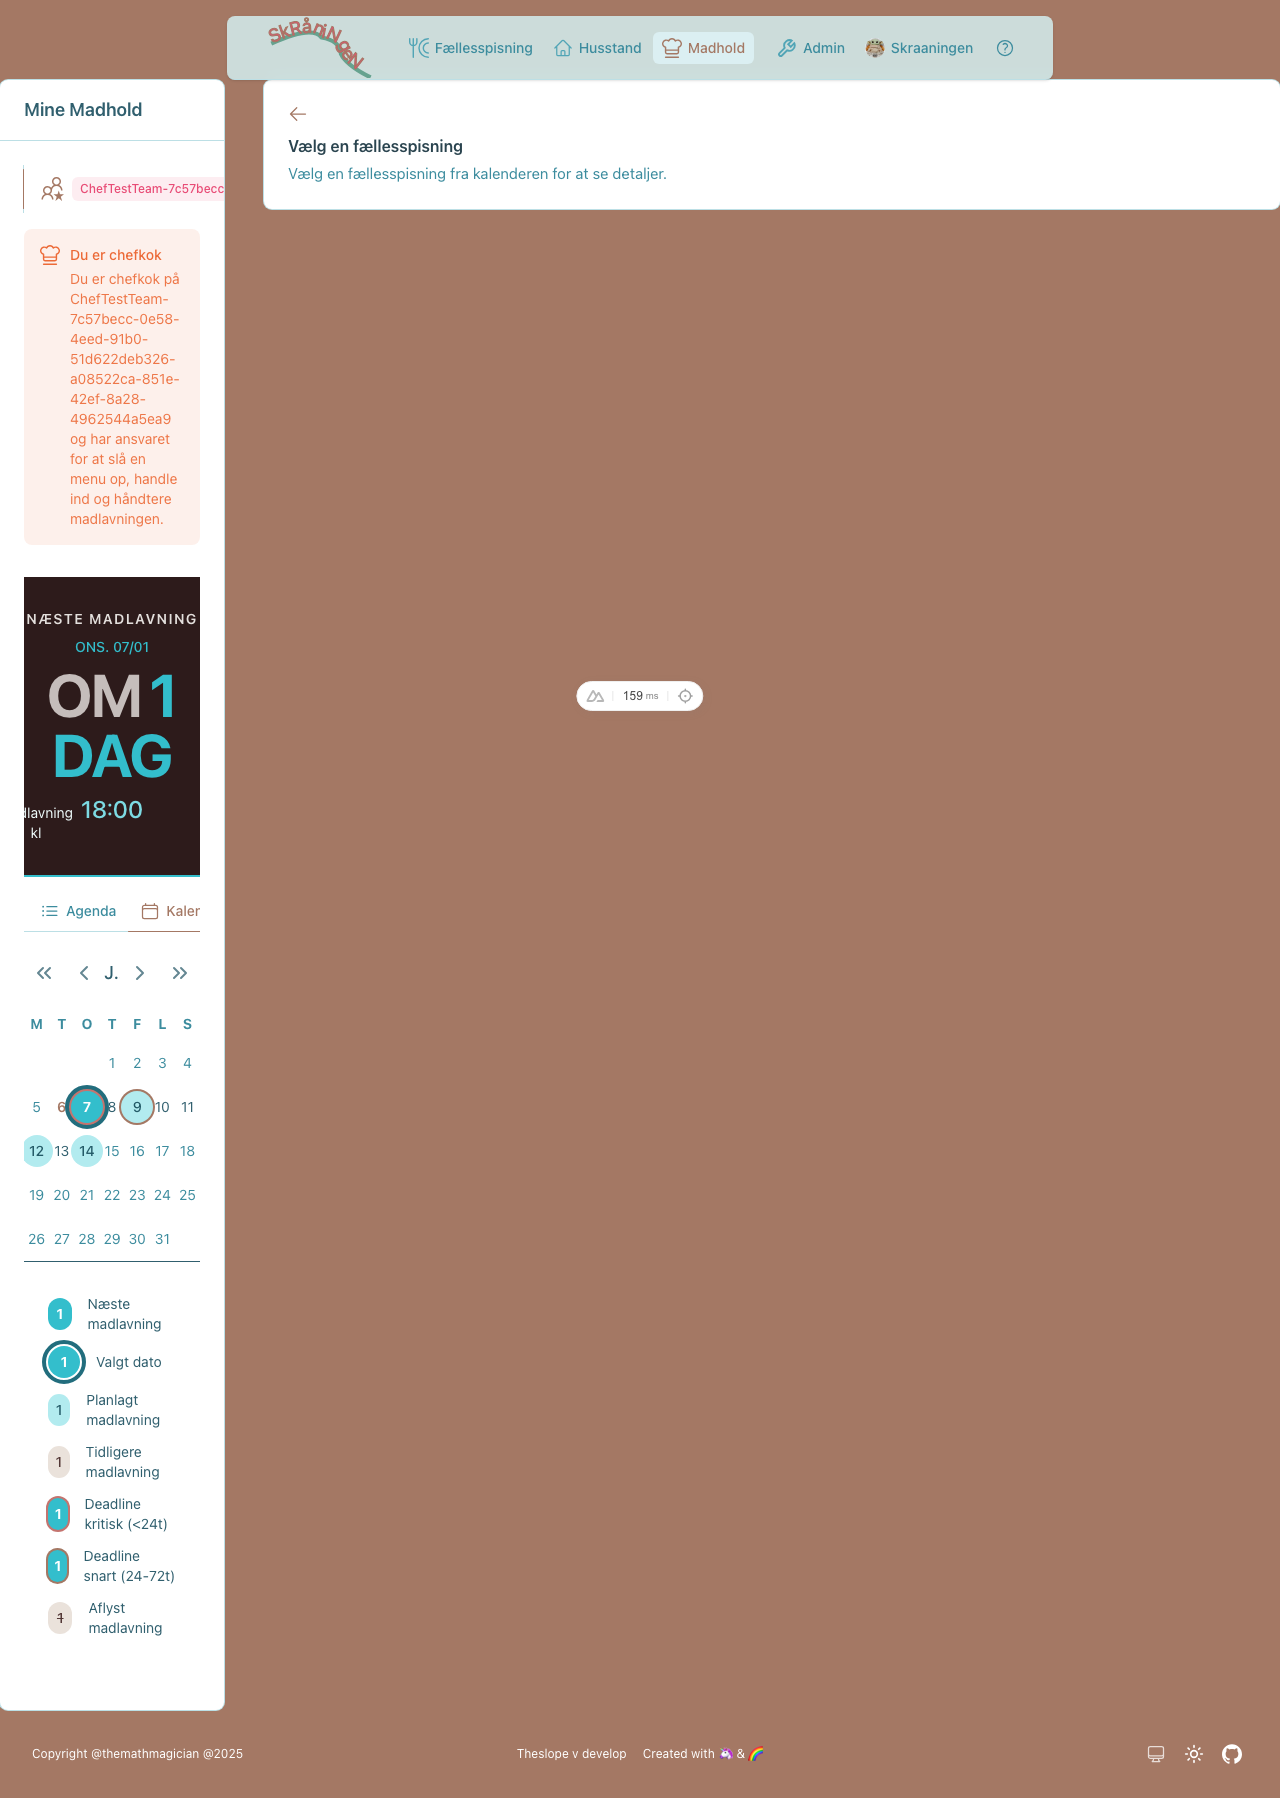
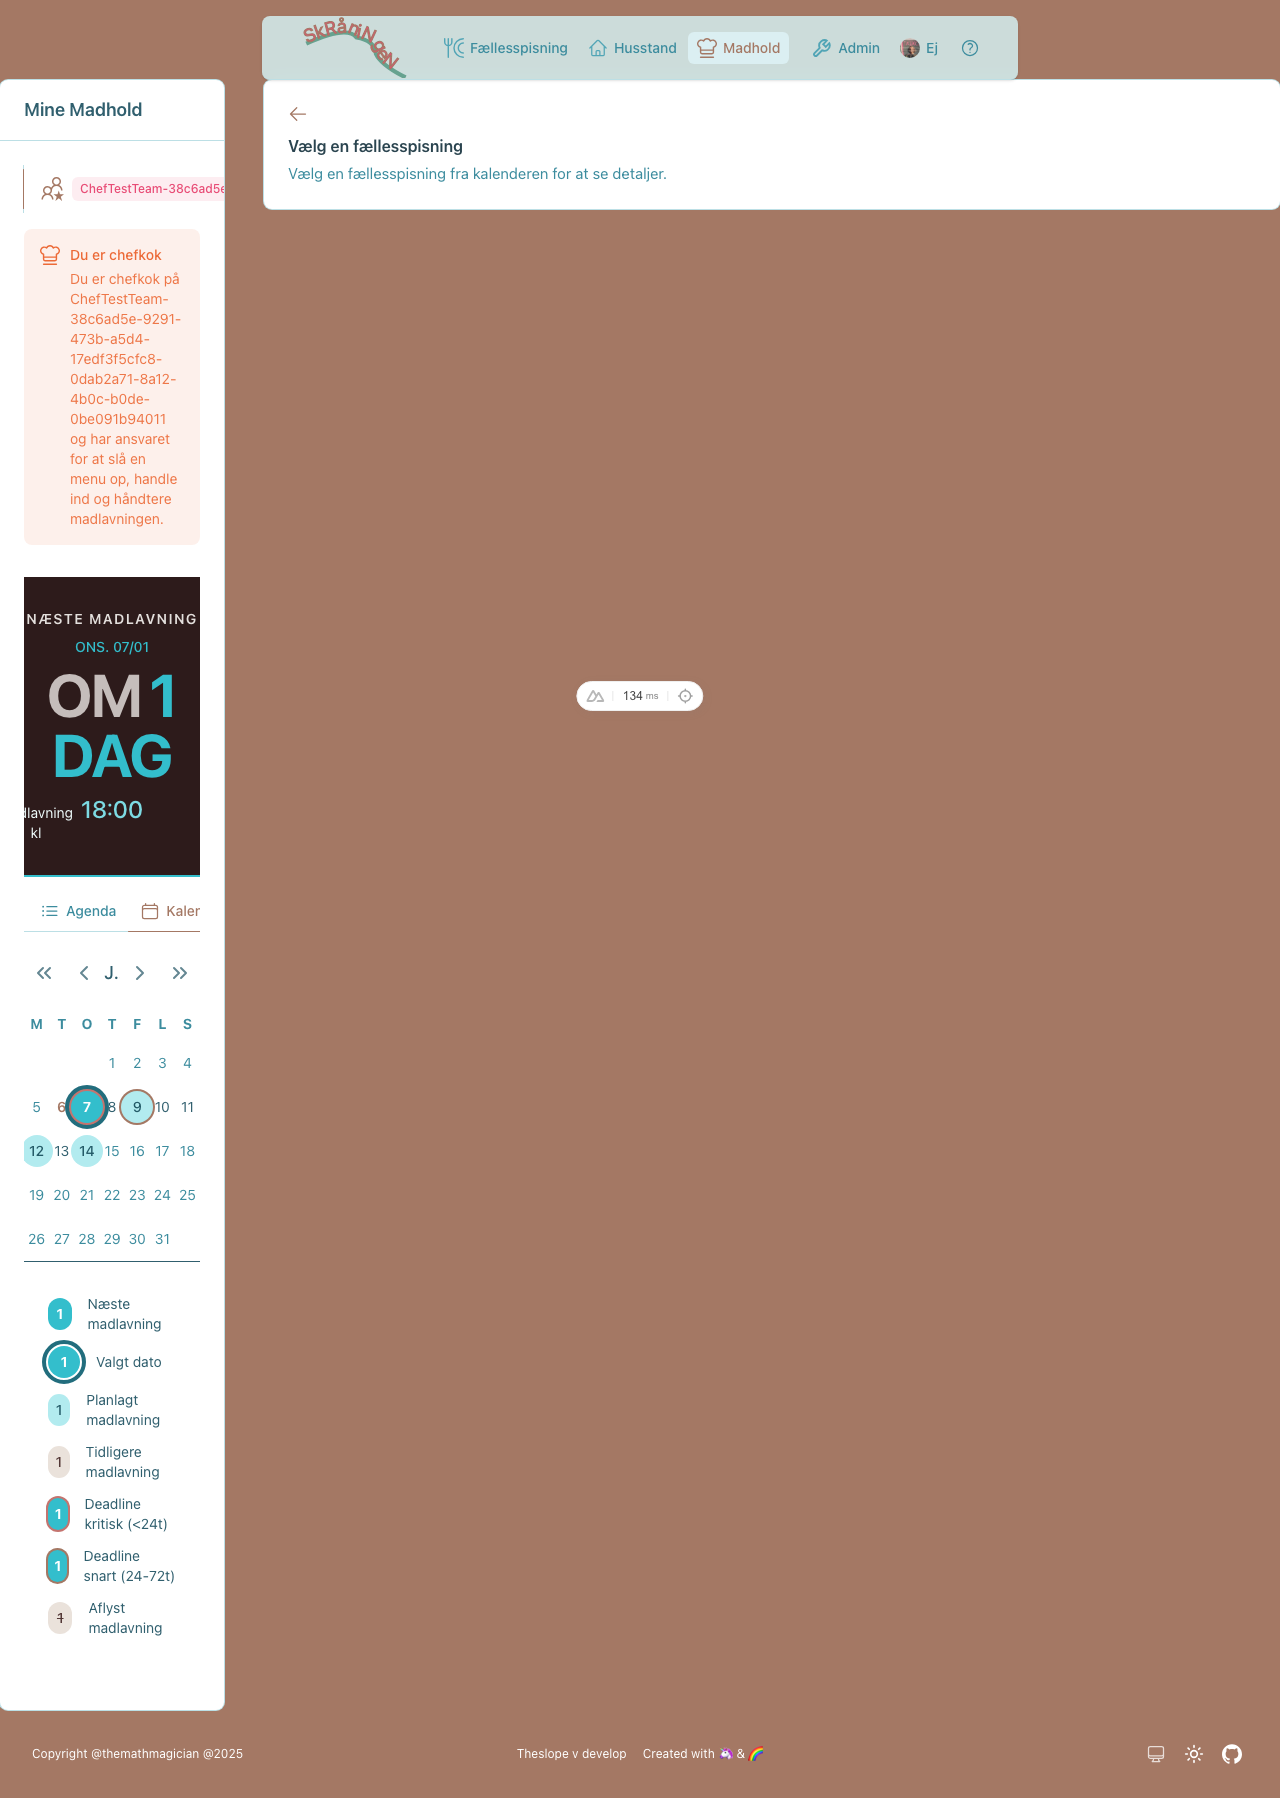
Chef tests updated to use member context (not admin)

diff --git a/tests/e2e/ui/Chef.e2e.spec.ts b/tests/e2e/ui/Chef.e2e.spec.ts
@@ -1,58 +1,62 @@
 import {test, expect} from '@playwright/test'
-import {authFiles} from '../config'
 import {SeasonFactory} from '../testDataFactories/seasonFactory'
 import {DinnerEventFactory} from '../testDataFactories/dinnerEventFactory'
 import {useCookingTeamValidation} from '~/composables/useCookingTeamValidation'
 import testHelpers from '../testHelpers'
 
-const {adminUIFile} = authFiles
-const {validatedBrowserContext, pollUntil, doScreenshot, getSessionUserInfo, temporaryAndRandom} = testHelpers
+const {validatedBrowserContext, memberValidatedBrowserContext, pollUntil, doScreenshot, getSessionUserInfo, temporaryAndRandom} = testHelpers
 const {TeamRoleSchema} = useCookingTeamValidation()
 const TeamRole = TeamRoleSchema.enum
 
 /**
  * E2E UI Tests for Chef Page
  *
- * Happy day scenario: Chef views their team's dinners and manages menu
- * Assigns the test user to a cooking team in beforeAll
+ * Happy day scenario: Member chef views their team's dinners and manages menu
+ * Uses member context (non-admin) for UI navigation
+ * Uses admin context for test data setup in beforeAll
  */
 test.describe('Chef Page - Happy Day', () => {
     const chefPageUrl = '/chef'
     let testTeamId: number
-
-    test.use({storageState: adminUIFile})
+    let memberInhabitantId: number
 
     test.beforeAll(async ({browser}) => {
-        const context = await validatedBrowserContext(browser)
+        const adminContext = await validatedBrowserContext(browser)
+        const memberContext = await memberValidatedBrowserContext(browser)
         const testSalt = temporaryAndRandom()
 
         // Get active season (creates if needed)
-        const activeSeason = await SeasonFactory.createActiveSeason(context)
+        const activeSeason = await SeasonFactory.createActiveSeason(adminContext)
 
         // Create a cooking team for the test
-        const team = await SeasonFactory.createCookingTeamForSeason(context, activeSeason.id!, `ChefTestTeam-${testSalt}`)
+        const team = await SeasonFactory.createCookingTeamForSeason(adminContext, activeSeason.id!, `ChefTestTeam-${testSalt}`)
         testTeamId = team.id!
 
-        // Get the test user's inhabitantId and assign them to the team as CHEF
-        const {inhabitantId} = await getSessionUserInfo(context)
-        await SeasonFactory.assignMemberToTeam(context, testTeamId, inhabitantId, TeamRole.CHEF)
+        // Get the MEMBER user's inhabitantId and assign them to the team as CHEF
+        const {inhabitantId} = await getSessionUserInfo(memberContext)
+        memberInhabitantId = inhabitantId
+        await SeasonFactory.assignMemberToTeam(adminContext, testTeamId, memberInhabitantId, TeamRole.CHEF)
 
         // Get existing dinner events to find a valid cooking date within the season
-        const dinnerEvents = await DinnerEventFactory.getDinnerEventsForSeason(context, activeSeason.id!)
+        const dinnerEvents = await DinnerEventFactory.getDinnerEventsForSeason(adminContext, activeSeason.id!)
         expect(dinnerEvents.length, 'Singleton season should have dinner events').toBeGreaterThan(0)
         const validCookingDate = new Date(dinnerEvents[0]!.date)
 
-        // Create a dinner event for our test team so countdown shows "Næste Madlavning"
-        await DinnerEventFactory.createDinnerEvent(context, {
+        // Create a dinner event for the member's test team
+        await DinnerEventFactory.createDinnerEvent(adminContext, {
             date: validCookingDate,
             menuTitle: `ChefTestDinner-${testSalt}`,
             seasonId: activeSeason.id!,
             cookingTeamId: testTeamId,
-            chefId: inhabitantId
+            chefId: memberInhabitantId
         })
     })
 
-    test('GIVEN chef with assigned team WHEN viewing chef page THEN sees dashboard with countdown', async ({page}) => {
+    test('GIVEN member chef with assigned team WHEN viewing chef page THEN sees dashboard with countdown', async ({browser}) => {
+        // Use member context for UI navigation
+        const memberContext = await memberValidatedBrowserContext(browser)
+        const page = await memberContext.newPage()
+
         await page.goto(`${chefPageUrl}?team=${testTeamId}`)
 
         await pollUntil(

diff --git a/server/routes/api/order/[id].post.ts b/server/routes/api/order/[id].post.ts
@@ -112,7 +112,7 @@ export default defineEventHandler(async (event): Promise<OrderDetail> => {
         // If order was RELEASED, re-book it (restore BOOKED state, clear releasedAt)
         const isRebooking = existingOrder.state === OrderState.RELEASED
         const updates = isRebooking
-            ? {dinnerMode: body.dinnerMode, state: OrderState.BOOKED, releasedAt: undefined}
+            ? {dinnerMode: body.dinnerMode, state: OrderState.BOOKED, releasedAt: null}
             : {dinnerMode: body.dinnerMode}
 
         console.info(`${LOG} ${isRebooking ? 'Re-booking' : 'Updating'} order ${id} dinnerMode to ${body.dinnerMode}`)

diff --git a/server/data/financesRepository.ts b/server/data/financesRepository.ts
@@ -340,7 +340,7 @@ export type OrderAuditContext = {
 export type OrderUpdateFields = {
     dinnerMode?: DinnerMode
     state?: OrderState
-    releasedAt?: Date
+    releasedAt?: Date | null
 }
 
 /**
